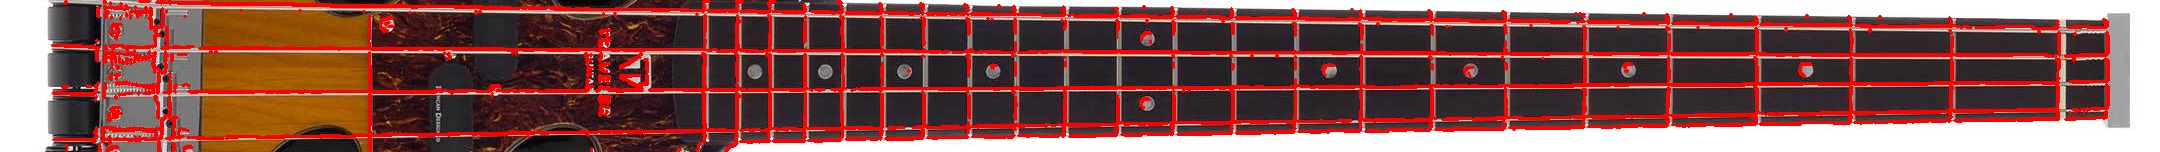
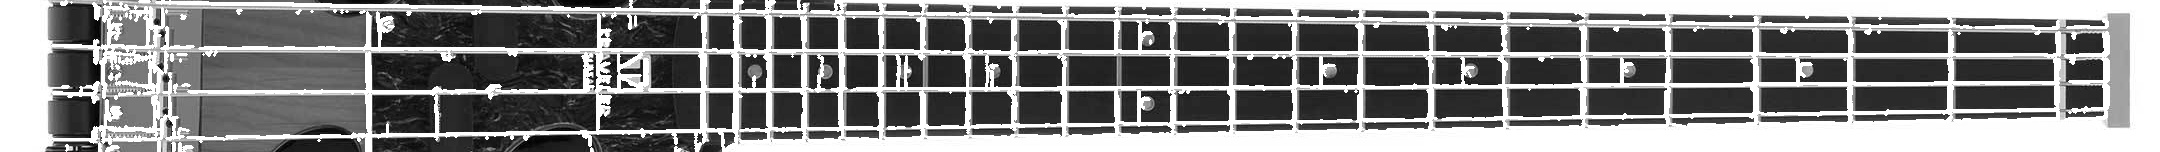
new stuff

diff --git a/fretboard/fretboard.py b/fretboard/fretboard.py
@@ -1,6 +1,6 @@
 import cv2 as cv
 import numpy as np 
-from neck import Neck, detect_frets, detect_strings, draw_lines
+from neck import Neck, detect_frets, detect_strings, draw_lines, fix_horizontal_lines, fix_vertical_lines
 import math
 
 img = cv.imread('guitar-fretboard-2.jpg')
@@ -11,7 +11,22 @@ gray = cv.cvtColor(neck, cv.COLOR_BGR2GRAY)
 frets = detect_frets(gray)
 strings = detect_strings(gray)
 
-neck = draw_lines(neck, frets)
-neck = draw_lines(neck, strings)
+gray_frets = draw_lines(gray, frets)
+gray_frets = fix_vertical_lines(gray_frets)
 
-cv.imwrite('houghlines3.jpg', neck)
+gray_strings = draw_lines(gray, strings)
+gray_strings = fix_horizontal_lines(gray_strings)
+
+second_frets = detect_frets(gray_frets)
+second_strings = detect_strings(gray_strings)
+
+final = draw_lines(gray, second_frets)
+final = draw_lines(final, second_frets)
+
+# print(second_frets)
+print(second_strings)
+
+# gray = draw_lines(gray, strings)
+# gray = fix_hoirizontal_lines(gray)
+
+cv.imwrite('houghlines3.jpg', final)

diff --git a/fretboard/neck.py b/fretboard/neck.py
@@ -6,10 +6,7 @@ import numpy as np
 class Neck:
 
     def __init__(self, img):
-        self.image = img
-        grey = cv.cvtColor(self.image, cv.COLOR_BGR2GRAY)
-        self.image = rotate_image(self.image)
-        self.neck = crop_neck(self.image)
+        self.neck = crop_neck(img)
 
     def get(self):
         return self.neck
@@ -110,6 +107,18 @@ def detect_strings(img):
 def draw_lines(img, lines, frets=True):
     for x in range(len(lines)):
         for x1, y1, x2, y2 in lines[x]:
-            cv.line(img, (x1, y1), (x2, y2), (0, 0, 255), 2)
+            cv.line(img, (x1, y1), (x2, y2), (255, 255, 255), 2)
 
     return img
+
+def fix_horizontal_lines(img):
+    kernal = np.ones((1,20), np.uint8)
+    d_im = cv.dilate(img, kernal, iterations=1)
+    e_im = cv.erode(d_im, kernal, iterations=1)
+    return e_im
+
+def fix_vertical_lines(img):
+    kernal = np.ones((20,1), np.uint8)
+    d_im = cv.dilate(img, kernal, iterations=1)
+    e_im = cv.erode(d_im, kernal, iterations=1)
+    return e_im
